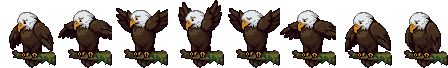
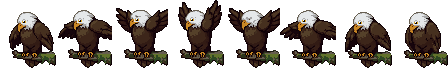
Give the Study Eagle friendlier eyes and a pet reaction
Eyes: the animated frames' eyes sat under a low, slanted grey brow that
looked sad. scripts/build-eagle-sprites.py now redraws the open eye in
every awake, celebration and pet frame: a round yellow eye with a dark
pupil and a glint, under a curved brow (an arch above the eye). Blinks
and squints keep their closed eyes; sleeping frames are untouched.

Pet: tapping the awake eagle plays an 8-frame happy head-bob once
(public/eagle-pet.png, made with PixelLab from the awake frame), with
its own keyframes so it always starts from frame 1. The hearts and
status line stay; a celebration still wins over a pet.

Also drops larger stray pixel clusters from the animations (the
sparkle above the head in the pet frames).

diff --git a/src/components/StudyEagle.tsx b/src/components/StudyEagle.tsx
@@ -5,7 +5,7 @@ import { getCourse, type Course } from "@/lib/courses";
 import { loadDescriptions, peekDescriptions } from "@/lib/course-description";
 import { useEagle } from "@/hooks/use-eagle";
 
-type EagleMode = "awake" | "sleeping" | "celebrating";
+type EagleMode = "awake" | "sleeping" | "celebrating" | "petting";
 
 const EAGLE_REPLIES = [
   "Try the course preview first, then shortlist anything that still feels like a good fit.",
@@ -18,6 +18,7 @@ const PERCH_KEY = "courseflix.eagle.perchY";
 const DEFAULT_PERCH = 0.62;
 const SLEEP_AFTER_MS = 20_000;
 const CELEBRATE_MS = 1_100; // matches the 8-frame wing-flap in styles.css
+const PET_MS = 900; // matches the 8-frame head-bob in styles.css
 /** Frame size of the eagle sheets (art pixels) and how much they are scaled up. */
 const FRAME = { w: 56, h: 68 };
 const SCALE = { desktop: 2, compact: 1.5 };
@@ -45,6 +46,7 @@ export function StudyEagle() {
   const didDrag = useRef(false);
   const messageTimer = useRef<number | null>(null);
   const celebrateTimer = useRef<number | null>(null);
+  const petTimer = useRef<number | null>(null);
   const modeRef = useRef<EagleMode>("awake");
   const pathname = useRouterState({ select: (state) => state.location.pathname });
   const course = getCurrentCourse(pathname);
@@ -110,6 +112,8 @@ export function StudyEagle() {
       setActivityVersion((version) => version + 1);
       showStatus("Nice pick!");
       setCelebrateKey((key) => key + 1);
+      if (petTimer.current !== null) window.clearTimeout(petTimer.current);
+      petTimer.current = null;
       setMode("celebrating");
       if (celebrateTimer.current !== null) window.clearTimeout(celebrateTimer.current);
       celebrateTimer.current = window.setTimeout(() => {
@@ -131,6 +135,7 @@ export function StudyEagle() {
     return () => {
       if (messageTimer.current !== null) window.clearTimeout(messageTimer.current);
       if (celebrateTimer.current !== null) window.clearTimeout(celebrateTimer.current);
+      if (petTimer.current !== null) window.clearTimeout(petTimer.current);
     };
   }, []);
 
@@ -192,6 +197,15 @@ export function StudyEagle() {
       return;
     }
     setPetKey((key) => key + 1);
+    // Happy head-bob, unless it is mid-celebration (that wins).
+    if (modeRef.current !== "celebrating") {
+      setMode("petting");
+      if (petTimer.current !== null) window.clearTimeout(petTimer.current);
+      petTimer.current = window.setTimeout(() => {
+        setMode("awake");
+        petTimer.current = null;
+      }, PET_MS);
+    }
     setPetCount((count) => count + 1);
     showStatus(petCount % 2 === 0 ? "Krrr! That tickles." : "You got me.");
     setSummaryCourseCode(null);
@@ -336,7 +350,13 @@ export function StudyEagle() {
           className="study-eagle-button"
         >
           <span
-            key={mode === "celebrating" ? `celebrate-${celebrateKey}` : mode}
+            key={
+              mode === "celebrating"
+                ? `celebrate-${celebrateKey}`
+                : mode === "petting"
+                  ? `pet-${petKey}`
+                  : mode
+            }
             className={`study-eagle-sprite study-eagle-sprite-${mode}`}
           />
         </button>

diff --git a/src/styles.css b/src/styles.css
@@ -438,6 +438,12 @@
   background-size: 400% 100%;
   animation: eagle-sleep-frames 2.8s steps(4, jump-none) infinite;
 }
+/* Pet: 8-frame happy head-bob, played once per tap (PET_MS in StudyEagle.tsx). */
+.study-eagle-sprite-petting {
+  background-image: url("/eagle-pet.png");
+  background-size: 800% 100%;
+  animation: eagle-pet-frames 0.9s steps(8, jump-none) forwards;
+}
 /* Celebration: 8-frame wing-flap, played once (CELEBRATE_MS in StudyEagle.tsx). */
 .study-eagle-sprite-celebrating {
   background-image: url("/eagle-celebrate.png");
@@ -457,6 +463,14 @@
   }
 }
 @keyframes eagle-sleep-frames {
+  from {
+    background-position-x: 0%;
+  }
+  to {
+    background-position-x: 100%;
+  }
+}
+@keyframes eagle-pet-frames {
   from {
     background-position-x: 0%;
   }

diff --git a/scripts/build-eagle-sprites.py b/scripts/build-eagle-sprites.py
@@ -4,6 +4,7 @@
   pixellab-awake-edit.png     PixelLab edit of sleep frame 1 with the eyes opened (80x80)
   pixellab-idle.png           PixelLab animation from the awake frame: blink + head turn (8 x 80x80)
   pixellab-celebrate.png      PixelLab animation from the awake frame: wing-flap (8 x 80x80)
+  pixellab-pet.png            PixelLab animation from the awake frame: happy head-bob (8 x 80x80)
 
 Outputs share one frame size, transparent with crisp pixels and one palette. The
 branch is identical in every frame and the sheets are mirrored so the branch's
@@ -11,6 +12,10 @@ cut end sits against the right edge of the screen:
   public/eagle-awake.png      8 frames (idle loop)
   public/eagle-sleep.png      4 frames
   public/eagle-celebrate.png  8 frames (played once)
+  public/eagle-pet.png        8 frames (played once per tap)
+
+The animated frames get one consistent eye drawn in (fix_eye), because the
+animation model's eyes sat under a low, slanted brow that looked sad.
 
 Run: python3 scripts/build-eagle-sprites.py
 """
@@ -147,10 +152,10 @@ def pixellab_frames(name):
 
 
 awake80 = shift(awake)
-idle80, celebrate80 = pixellab_frames("idle"), pixellab_frames("celebrate")
+idle80, celebrate80, pet80 = (pixellab_frames(n) for n in ("idle", "celebrate", "pet"))
 
 
-def drop_specks(f, min_size=15):
+def drop_specks(f, min_size=40):
     """Remove loose clusters of pixels the animation model leaves floating around."""
     al = f[..., 3] > 0; seen = np.zeros_like(al)
     for y, x in zip(*np.nonzero(al)):
@@ -169,14 +174,15 @@ def drop_specks(f, min_size=15):
 
 idle80 = [drop_specks(f) for f in idle80]
 celebrate80 = [drop_specks(f) for f in celebrate80]
+pet80 = [drop_specks(f) for f in pet80]
 
 # lock the branch (and tail) below the feet to the awake frame, so it never flickers
 LOCK = 61 + dy
-for f in idle80 + celebrate80 + sleep80:
+for f in idle80 + celebrate80 + pet80 + sleep80:
     f[LOCK:] = awake80[LOCK:]
 
 # one shared palette for all four art sources
-everything = sleep80 + [awake80] + idle80 + celebrate80
+everything = sleep80 + [awake80] + idle80 + celebrate80 + pet80
 opaque = np.concatenate([f[f[..., 3] > 0][:, :3].astype(float) for f in everything])
 cent2 = opaque[np.random.default_rng(2).choice(len(opaque), 40, replace=False)]
 for _ in range(30):
@@ -200,11 +206,75 @@ def snap2(f):
     return f
 
 
-sleep80, idle80, celebrate80 = ([snap2(f) for f in group] for group in (sleep80, idle80, celebrate80))
+sleep80, idle80, celebrate80, pet80 = (
+    [snap2(f) for f in group] for group in (sleep80, idle80, celebrate80, pet80))
+
+
+# ---------- 4. one friendly eye for every animated frame ----------
+HEAD_WHITE, BROW, IRIS, PUPIL, GLINT = (229, 232, 234), (171, 170, 170), (227, 173, 43), (10, 0, 1), (255, 255, 255)
+
+
+def eye_clusters(f):
+    """Clusters of non-white pixels enclosed by the white head (eye, brow marks, shading)."""
+    rgb, a = f[..., :3].astype(int), f[..., 3] > 0
+    white = a & (rgb.min(2) >= 195)
+    cand = np.zeros_like(a)
+    for y in range(8, 45):
+        for x in range(20, 75):
+            if (a[y, x] and not white[y, x] and white[y, max(0, x - 3):x].any()
+                    and white[y, x + 1:x + 4].any() and white[max(0, y - 3):y, x].any()):
+                cand[y, x] = True
+    seen = np.zeros_like(cand); out = []
+    for y, x in zip(*np.nonzero(cand)):
+        if seen[y, x]: continue
+        comp, q = [], deque([(y, x)]); seen[y, x] = True
+        while q:
+            cy, cx = q.popleft(); comp.append((cy, cx))
+            for ny in (cy - 1, cy, cy + 1):
+                for nx in (cx - 1, cx, cx + 1):
+                    if 0 <= ny < 80 and 0 <= nx < 80 and cand[ny, nx] and not seen[ny, nx]:
+                        seen[ny, nx] = True; q.append((ny, nx))
+        out.append(comp)
+    return out
+
+
+def fix_eye(f):
+    """Redraw the open eye: round yellow eye, dark pupil, glint, and a curved brow
+    (an arch above the eye instead of a low slanted line). Closed eyes are left alone."""
+    f = f.copy(); rgb = f[..., :3].astype(int)
+    clusters = eye_clusters(f)
+    dark = lambda c: sum(1 for y, x in c if rgb[y, x].sum() < 120)
+    eyes = [c for c in clusters if dark(c) > 0 and len(c) <= 24]   # eye, sometimes joined to its brow
+    if not eyes:
+        return f                                   # blink / squint frame
+    eye = max(eyes, key=dark)
+    ey = [y for y, x in eye]; ex = [x for y, x in eye]
+    dk = [(y, x) for y, x in eye if rgb[y, x].sum() < 120]
+    py = min(y for y, x in dk); px = round(np.mean([x for y, x in dk]))
+    # clear the old eye, the slanted brow mark above it and the grey streak behind it
+    for c in clusters:
+        cy = [y for y, x in c]; cx = [x for y, x in c]
+        brow = max(cy) <= max(ey) and min(cy) >= min(ey) - 5 and min(cx) >= min(ex) - 5 and max(cx) <= max(ex) + 1
+        cheek = max(cx) < min(ex) and min(cx) >= min(ex) - 10 and min(ey) - 2 <= min(cy) <= max(ey) + 3
+        if c is eye or (dark(c) == 0 and (brow or cheek)):
+            for y, x in c: f[y, x, :3] = HEAD_WHITE
+    for y in range(py - 2, py + 3):                # wipe the patch so nothing old survives
+        for x in range(px - 2, px + 4):
+            if f[y, x, 3]: f[y, x, :3] = HEAD_WHITE
+    # beak is on the right in these (pre-mirror) frames
+    stamp = {(-3, 0): BROW, (-3, 1): BROW, (-2, -1): BROW, (-2, 2): BROW,
+             (-1, -1): IRIS, (-1, 0): PUPIL, (-1, 1): GLINT, (-1, 2): IRIS,
+             (0, -1): IRIS, (0, 0): PUPIL, (0, 1): PUPIL, (0, 2): IRIS}
+    for (dy, dx), col in stamp.items():
+        f[py + 1 + dy, px + dx] = (*col, 255)
+    return f
+
+
+idle80, celebrate80, pet80 = ([fix_eye(f) for f in group] for group in (idle80, celebrate80, pet80))
 
 # one shared frame: starts at the branch's cut end (wing tips past it go "off screen")
 STUB_X = 16 + 1
-al = np.any([f[..., 3] > 0 for f in sleep80 + idle80 + celebrate80], axis=0)
+al = np.any([f[..., 3] > 0 for f in sleep80 + idle80 + celebrate80 + pet80], axis=0)
 ys, xs = np.nonzero(al)
 y0, y1, x1 = ys.min(), ys.max() + 1, xs.max() + 1
 
@@ -238,6 +308,7 @@ def finish(frames):
     return np.concatenate(out, 1)
 
 
-for name, frames in (("eagle-awake", idle80), ("eagle-sleep", sleep80), ("eagle-celebrate", celebrate80)):
+for name, frames in (("eagle-awake", idle80), ("eagle-sleep", sleep80), ("eagle-celebrate", celebrate80),
+                     ("eagle-pet", pet80)):
     Image.fromarray(finish(frames), "RGBA").save(OUT / f"{name}.png", optimize=True)
-print("frame size", x1 - STUB_X, "x", y1 - y0, "| wrote eagle-awake, eagle-sleep, eagle-celebrate")
+print("frame size", x1 - STUB_X, "x", y1 - y0, "| wrote eagle-awake, eagle-sleep, eagle-celebrate, eagle-pet")
